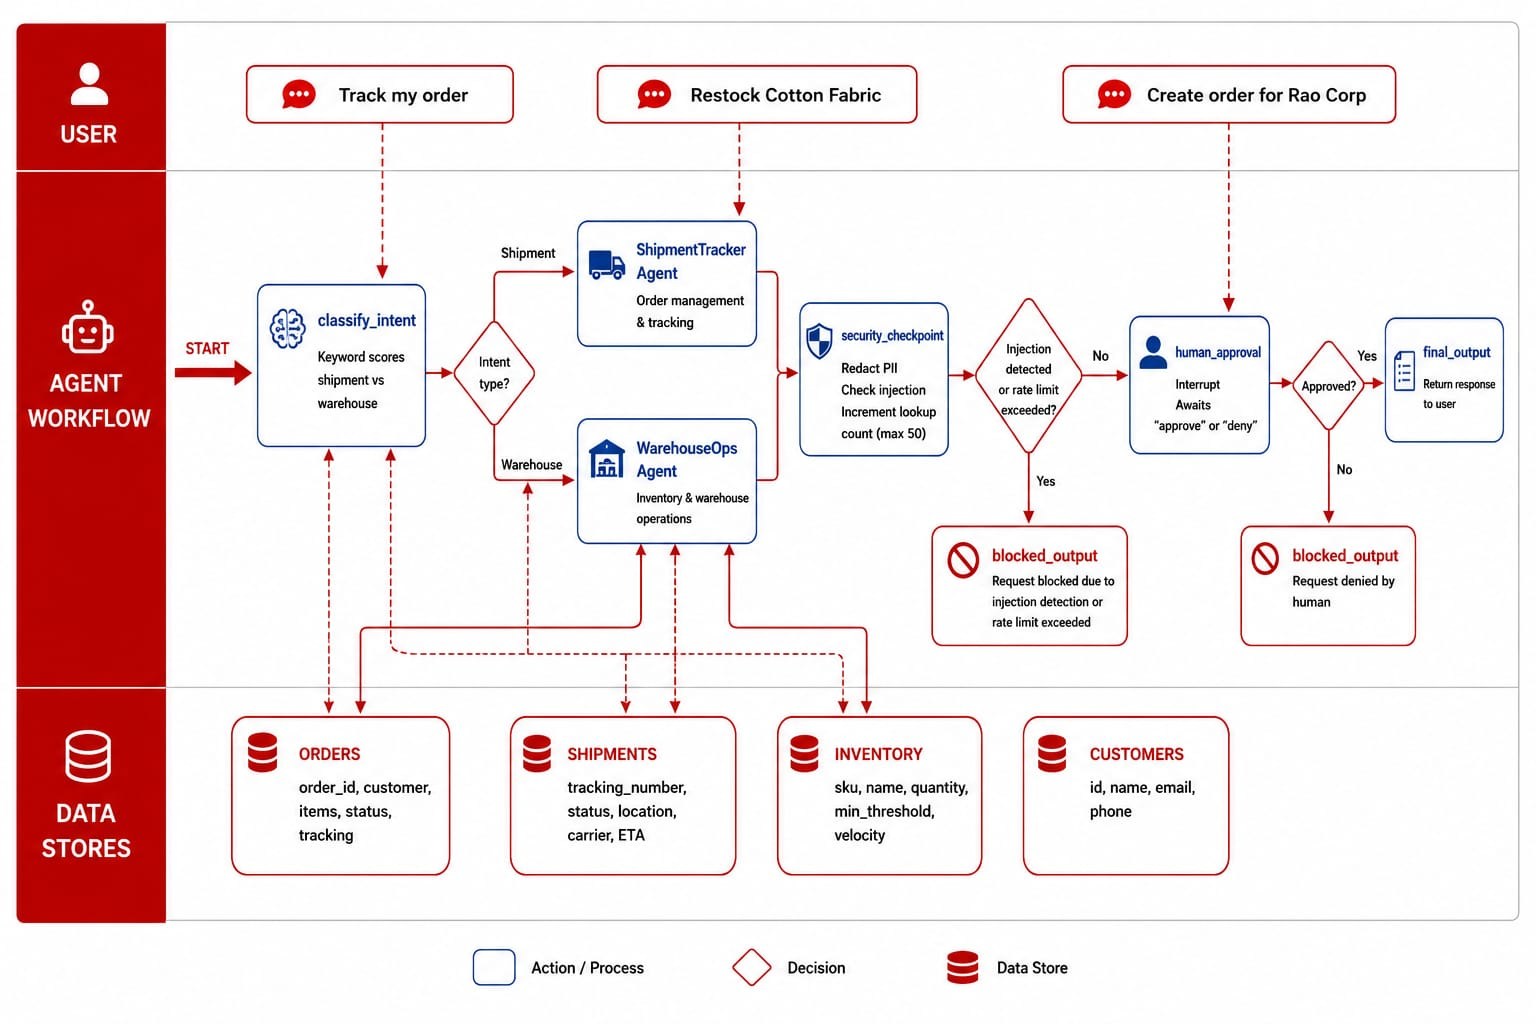
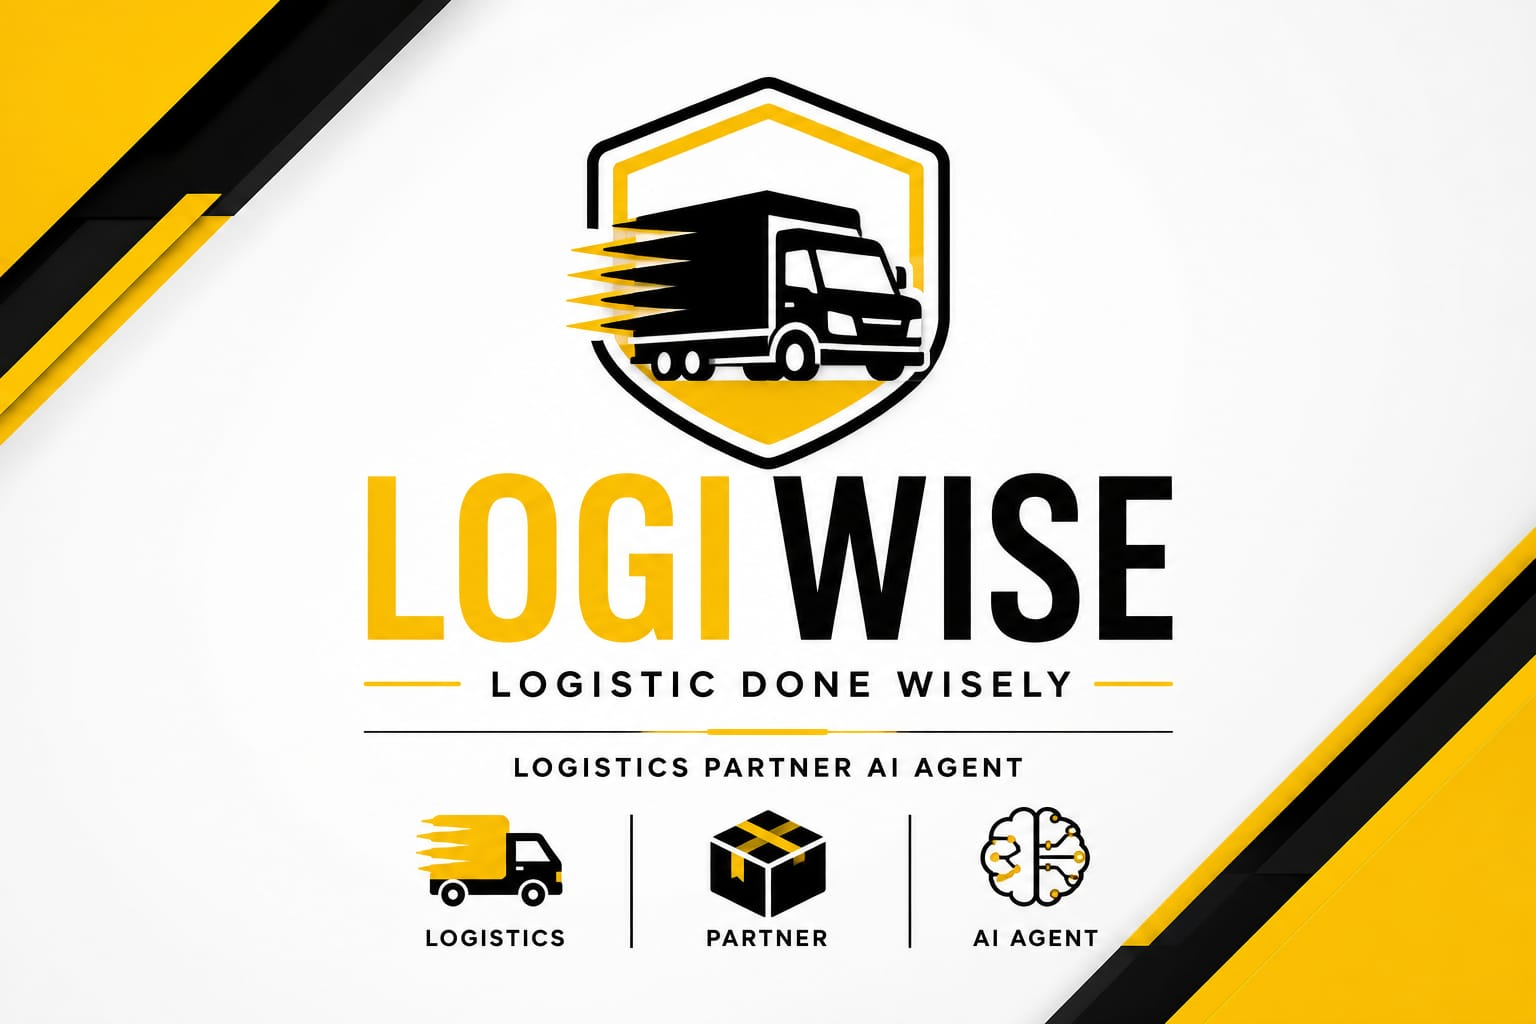
Replace architecture, workflow, thumbnail PNGs (converted from WhatsApp JPEGs) with descriptions in README

diff --git a/README.md b/README.md
@@ -162,6 +162,17 @@ make run       # Start server at http://localhost:18081
 make test      # Run pytest
 ```
 
+## Assets
+
+![Architecture Diagram](architecture.png)
+*LogiWise architecture — user input flows through classify_intent, branches to 3 sub-agents (ShipmentTracker, WarehouseOps, InventoryIntelligence), passes through security checkpoint, and routes to human approval or final output.*
+
+![Workflow Diagram](workflow.png)
+*Workflow graph — directed edges with route labels connecting START, classify_intent, sub-agents, security_checkpoint, human_approval, final_output, and blocked_output.*
+
+![LogiWise Thumbnail](thumbnail.png)
+*Project thumbnail — "LogiWise — Logistics AI Agent" with globe wireframe, logistics routes, and warehouse/truck icons on royal dark blue background.*
+
 ## License
 
 MIT